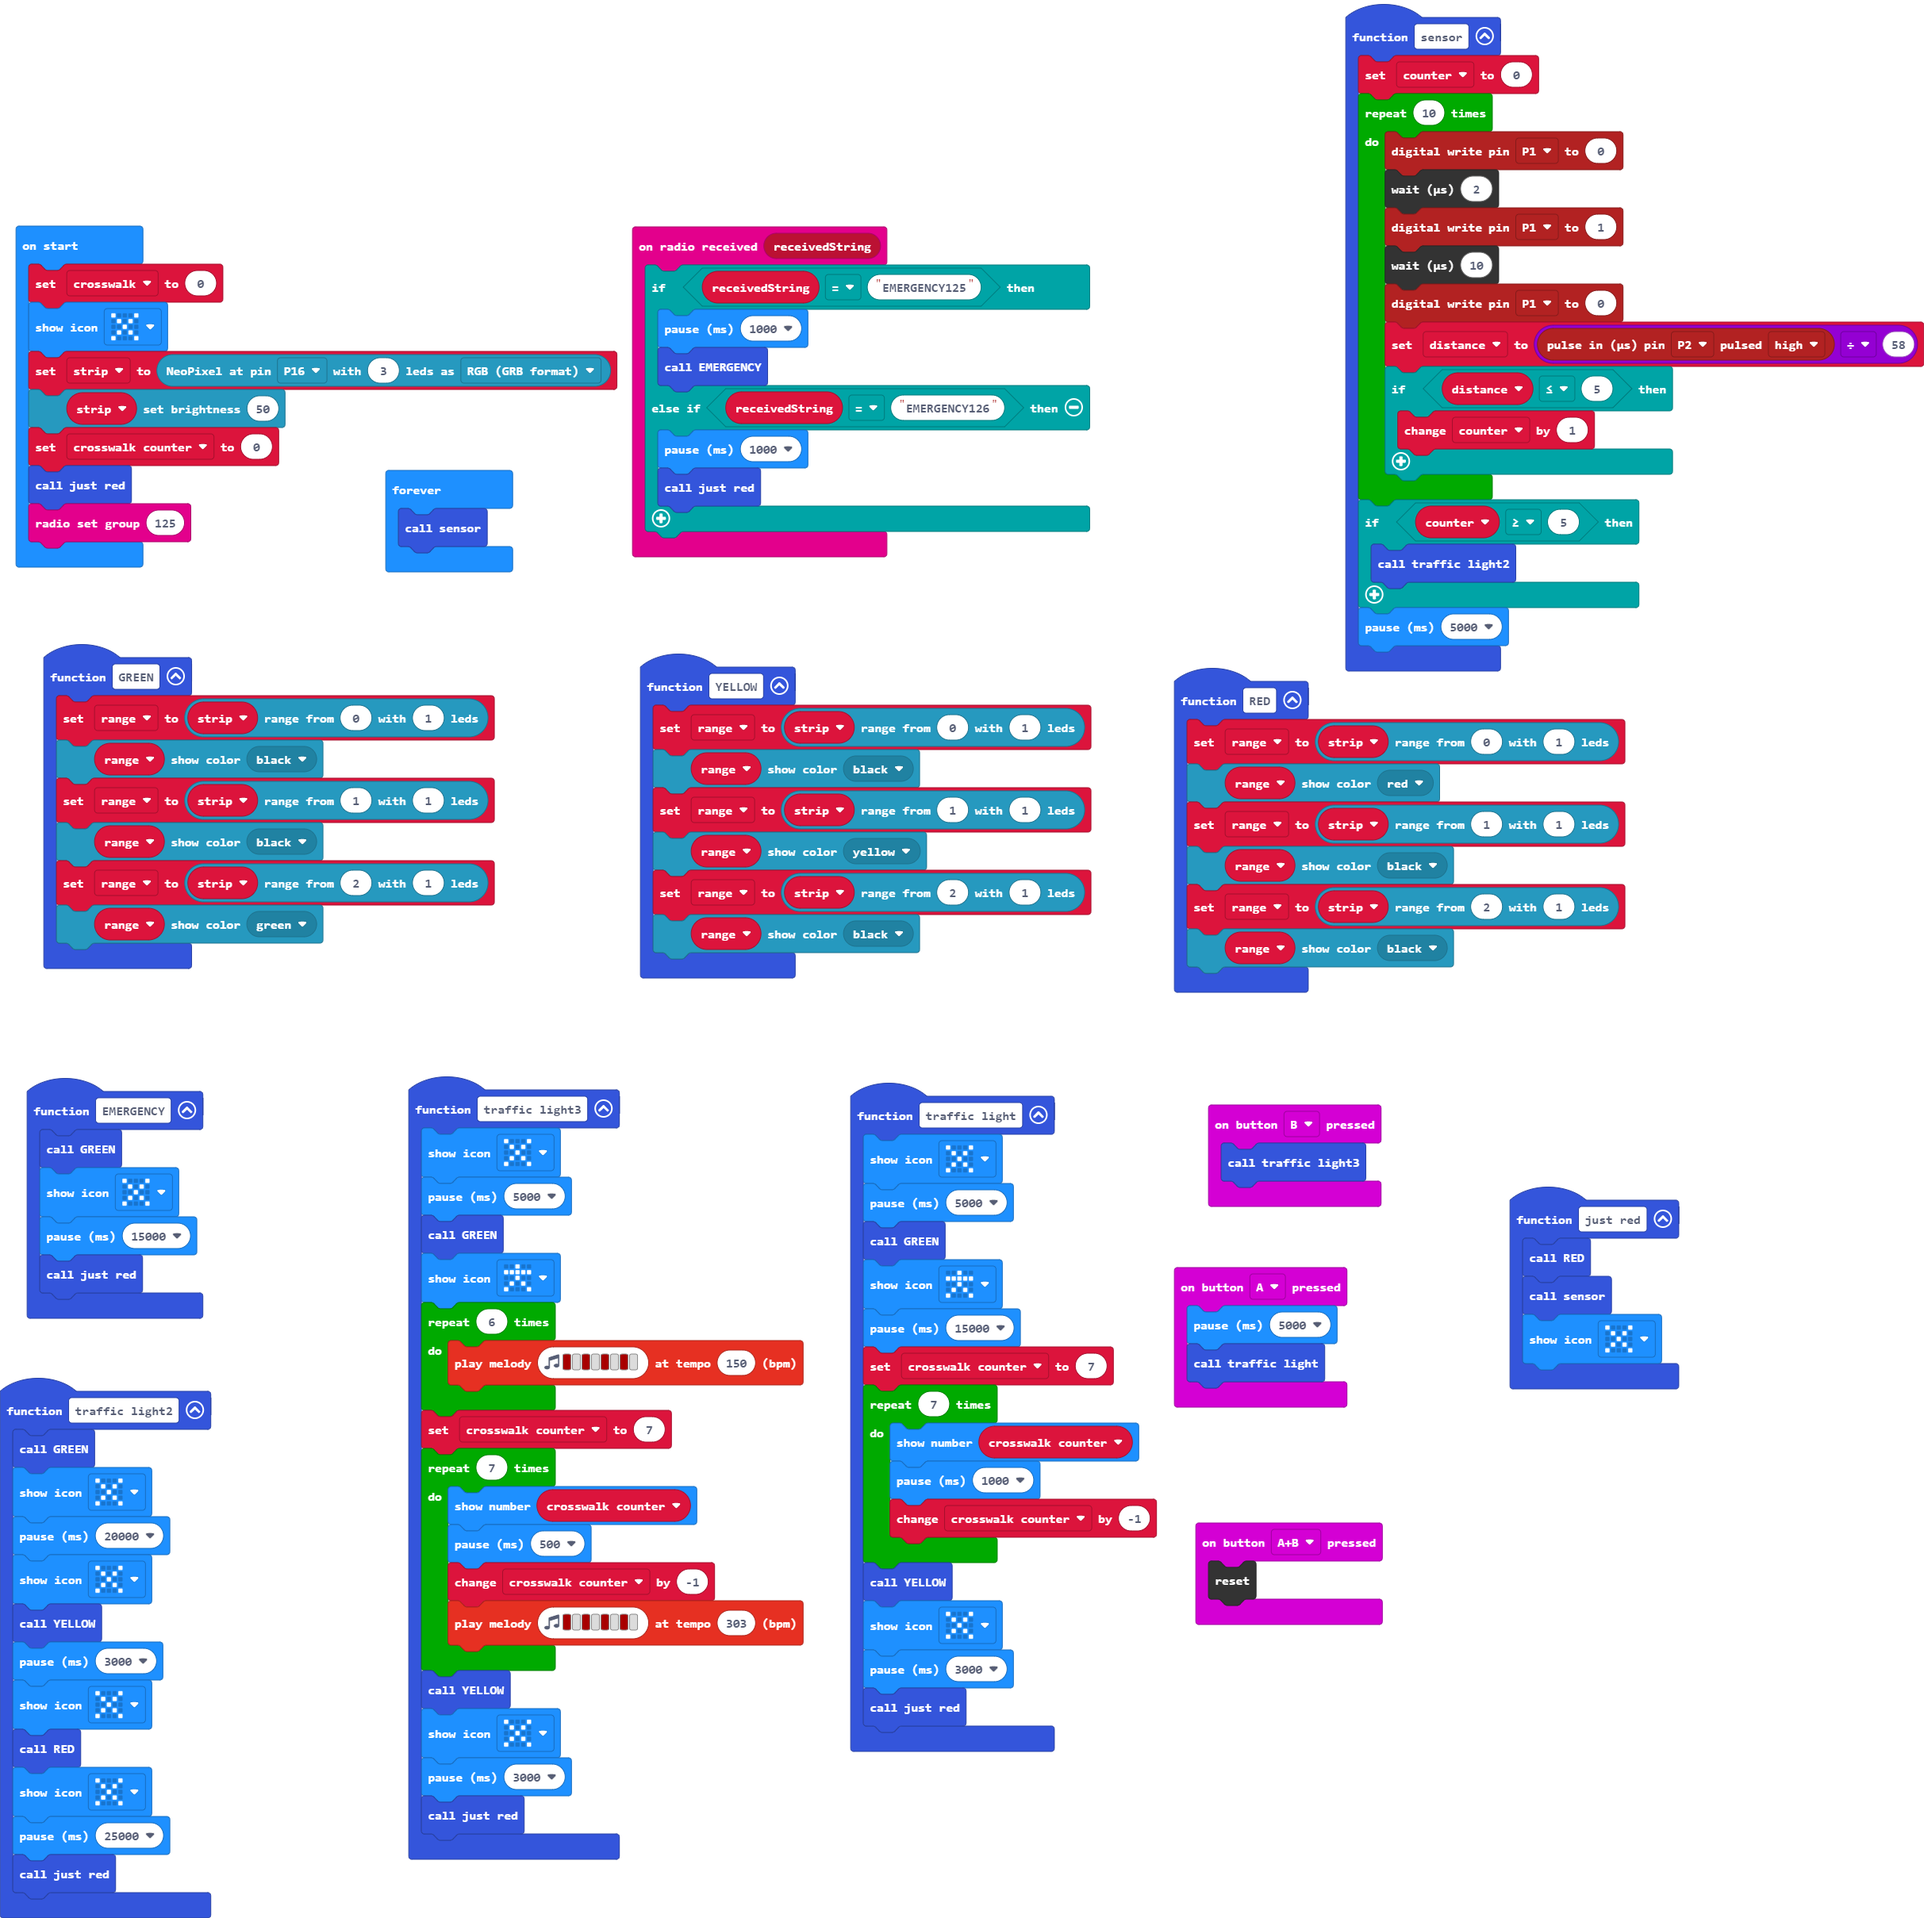
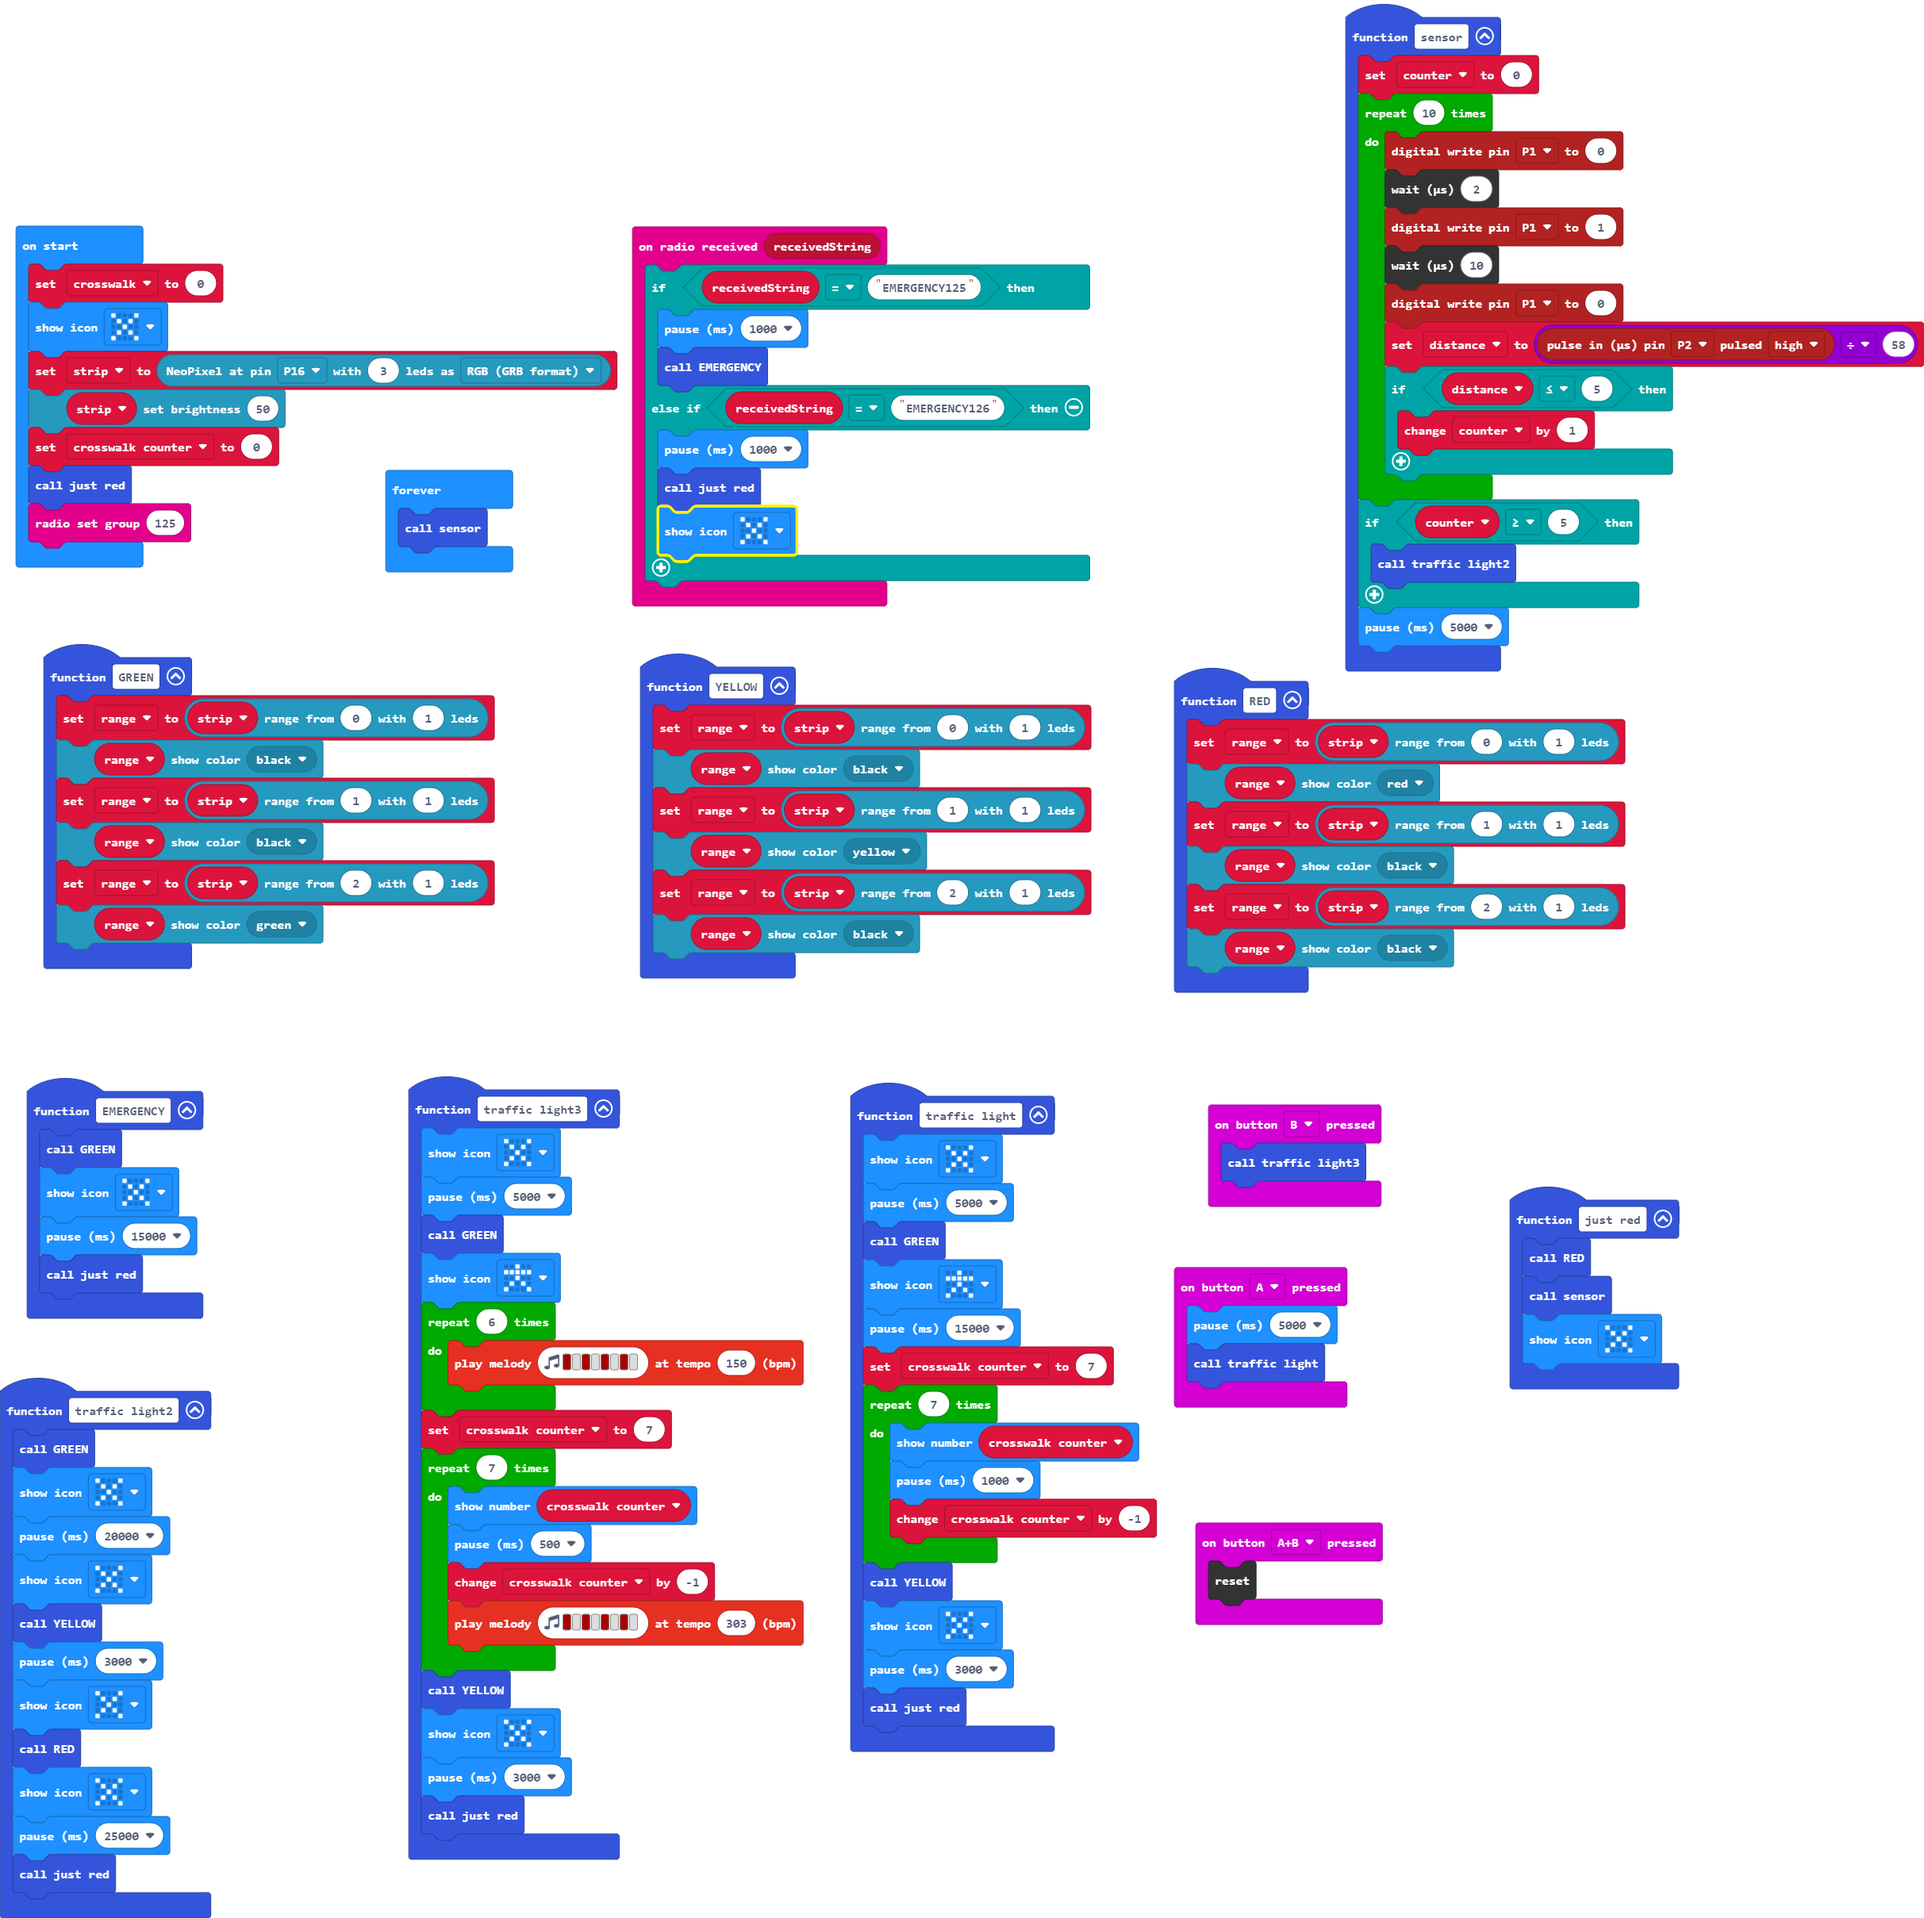
Update main.blocks, main.ts

Changed region(s): [[0.3093, 0.2481, 0.5876, 0.3412]]

diff --git a/main.ts b/main.ts
@@ -83,6 +83,7 @@ radio.onReceivedString(function (receivedString) {
     } else if (receivedString == "EMERGENCY126") {
         basic.pause(1000)
         just_red()
+        basic.showIcon(IconNames.No)
     }
 })
 input.onButtonPressed(Button.B, function () {
